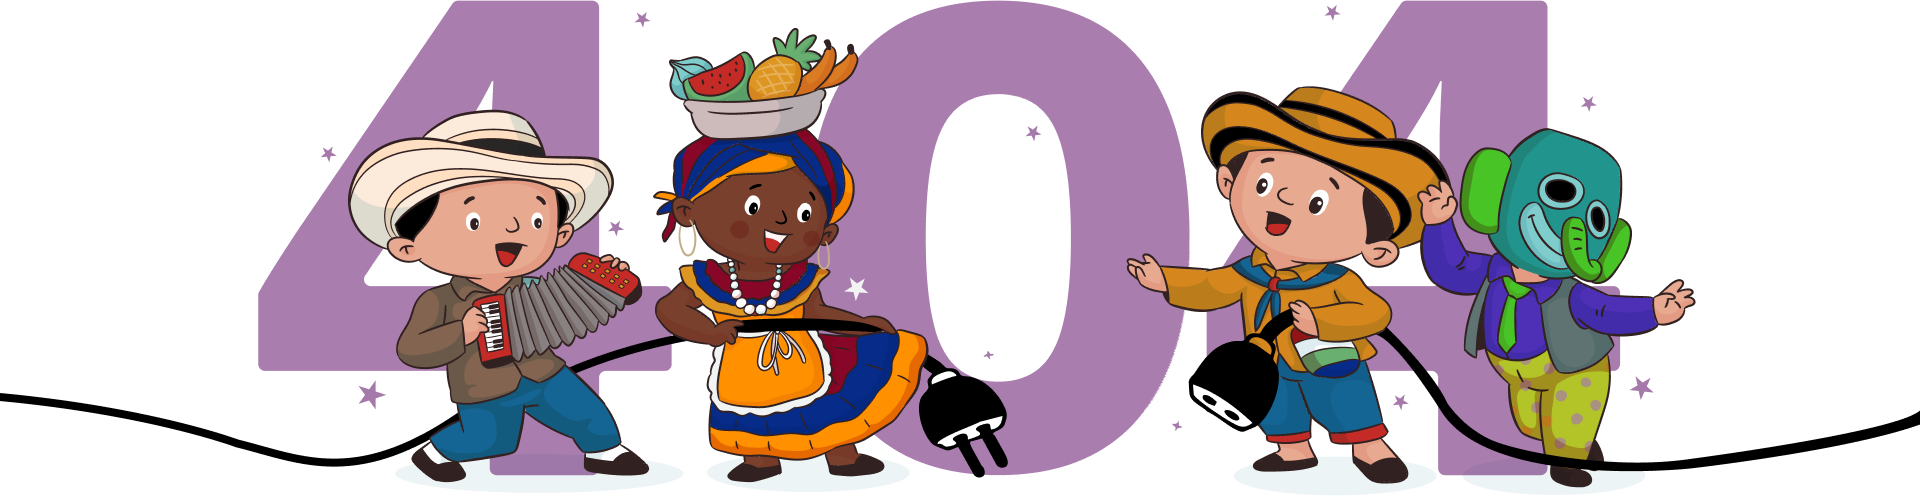
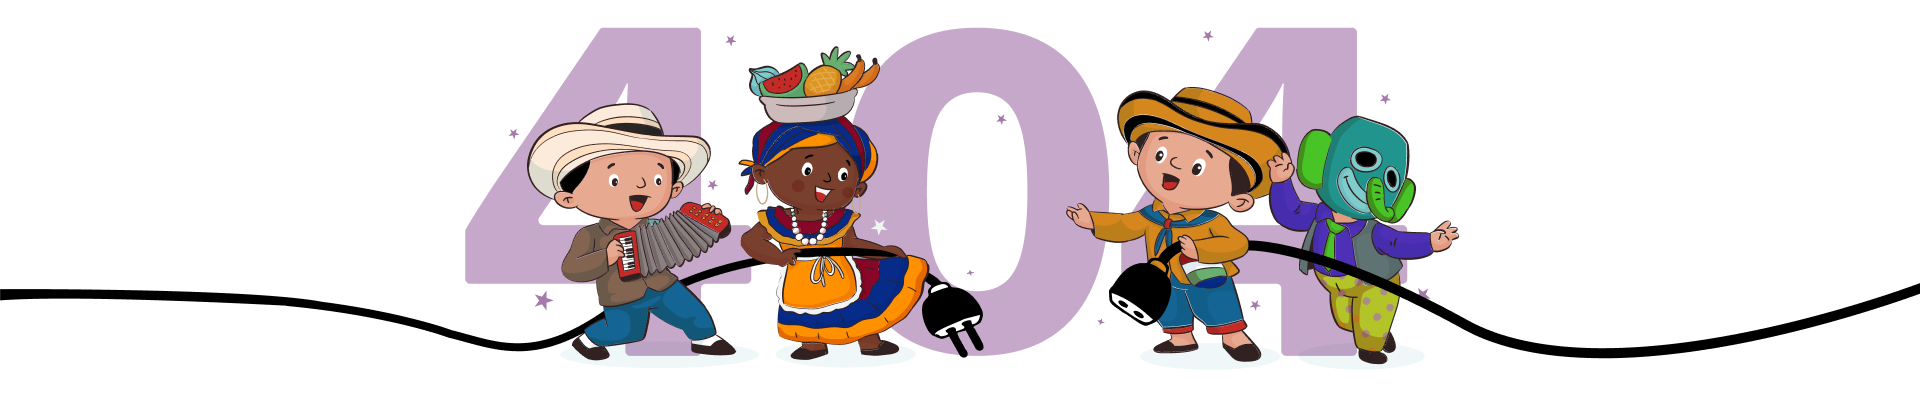
se cambia la imagen de error 404

diff --git a/frontend_rav/src/components/Error.vue b/frontend_rav/src/components/Error.vue
@@ -5,18 +5,18 @@
         <!-- Mensaje de error -->
         <div class="static inline-grid">
           <!-- Número 404 -->
-          <h1 class="text-negro font-bold mb-44 text-6xl ">Oops...</h1>
+          <h1 class="text-negro font-bold mb-80 text-7xl ">Oops...</h1>
           <!-- Imágenes de los personajes -->
-          <div class="absolute inset-0 flex items-center justify-center">
-            <img :src="characterImage" alt="404 con personajes" class="w-[600px] sm:w-[800px] object-contain" />
+          <div class="absolute inset-0 flex w-full my-9  items-center justify-center">
+            <img :src="characterImage" alt="404 con personajes" class="w-full object-contain" />
           </div>
         </div>
   
         <!-- Mensaje de texto -->
-        <h2 class="text-2xl sm:text-3xl mt-3 font-semibold text-negro">Página no encontrada</h2>
+        <h2 class="md:text-6xl sm:text-3xl  font-bold text-negro">Página no encontrada</h2>
   
         <!-- Botón -->
-        <button @click="goHome" class="bg-customPurple text-amarillo px-8 py-3  text-lg shadow hover:bg-purple-700">
+        <button @click="goHome" class="bg-customPurple text-amarillo px-8 py-3   text-lg shadow hover:bg-purple-700">
           Regresar a la página de inicio
         </button>
       </div>
